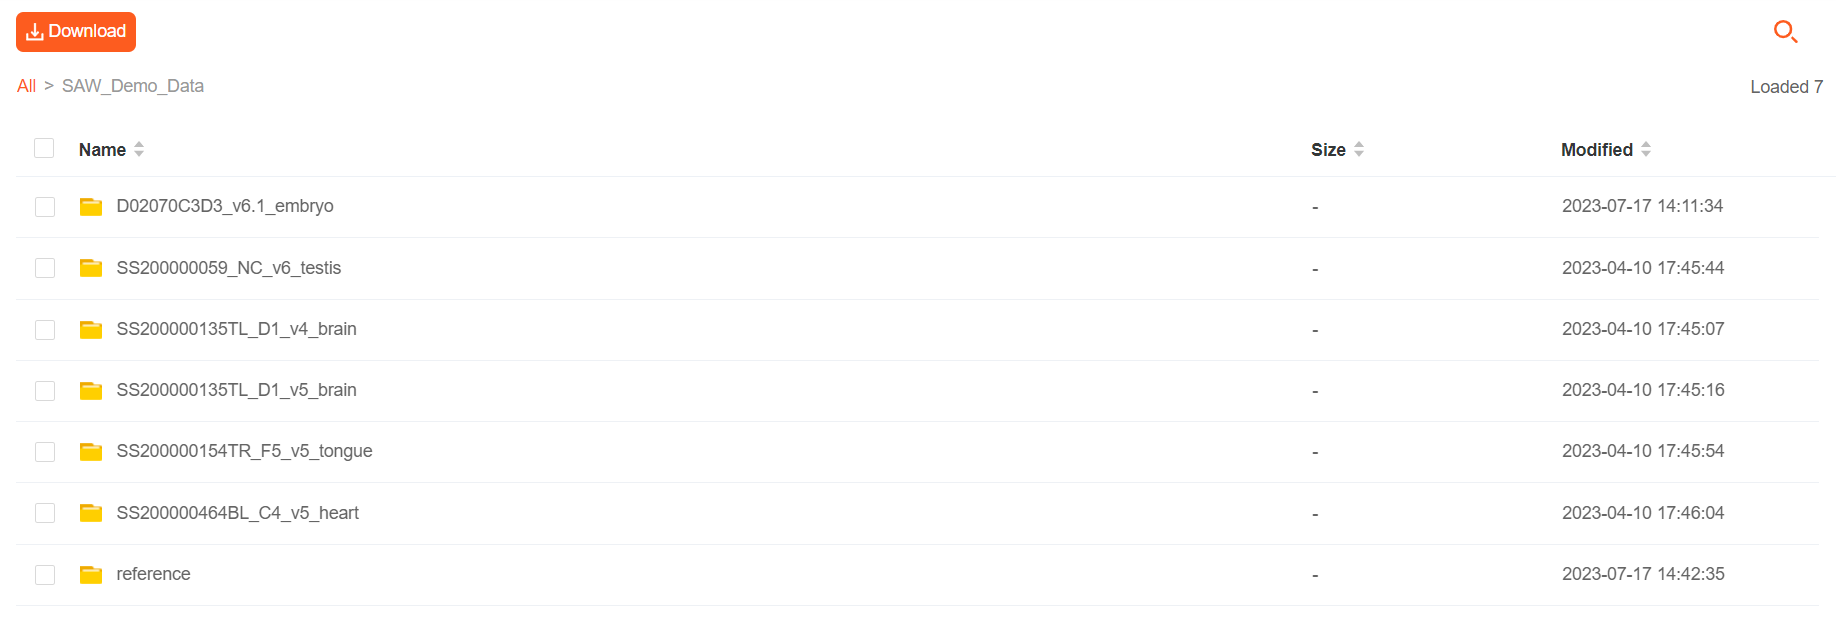
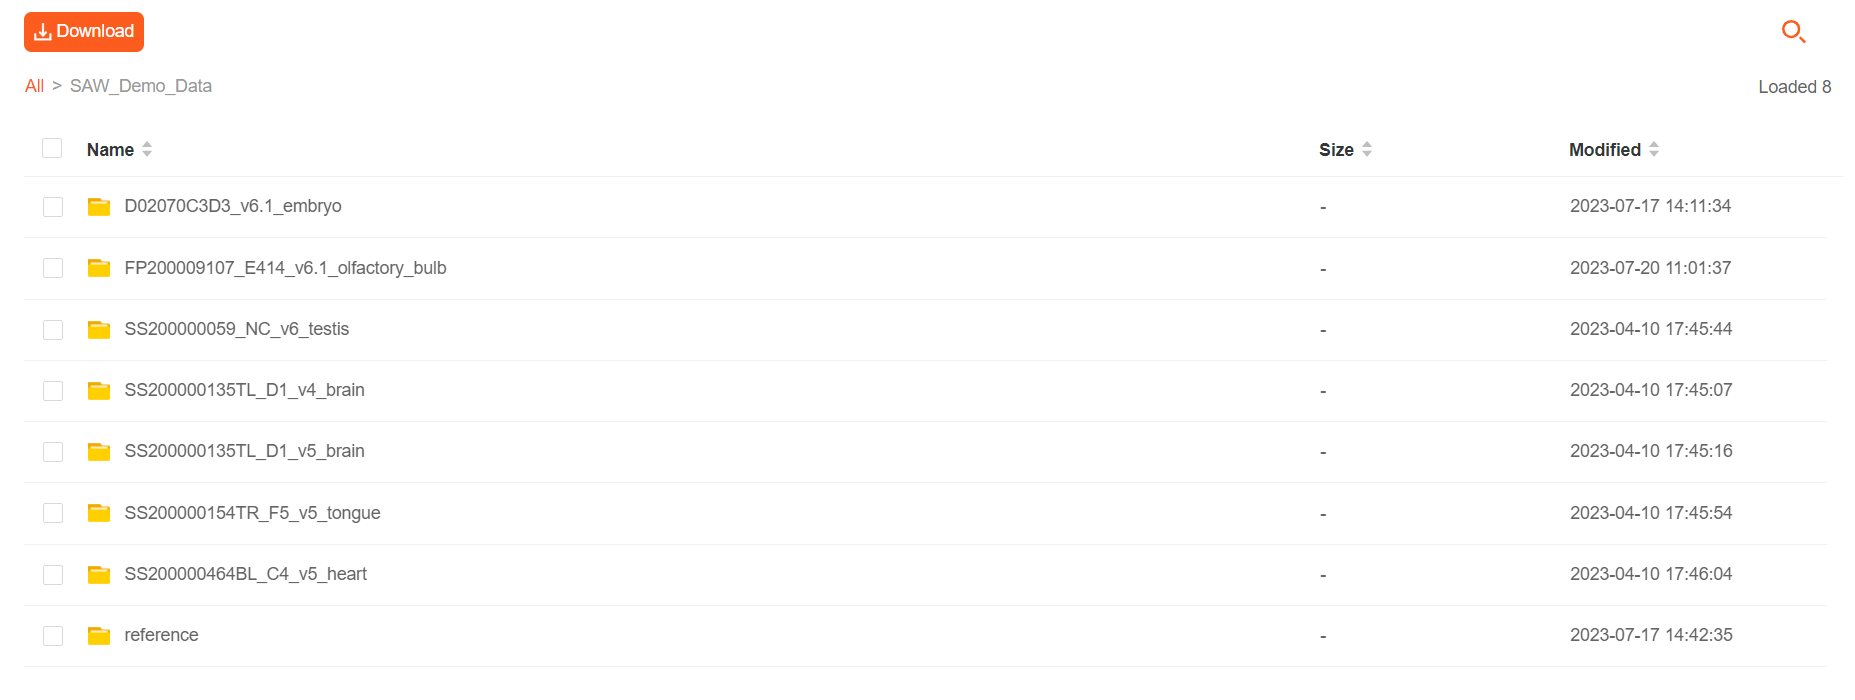
(File)

diff --git a/Test_Data/README.md b/Test_Data/README.md
@@ -8,6 +8,8 @@
 | Demo 3 | SS200000464BL_C4 | 1\*1 | mouse | heart |
 | Demo 4 | SS200000059_NC | 1\*1 | mouse | testis |
 | Demo 5 | D02070C3D3 | 1\*2 | mouse | embryo |
+| Demo 6 | FP200009107_E414 | 0.5\*0.5 | mouse | olfactory bulb |
+
 
 ##  Download data from Raysync
 **Link: http://116.6.21.110:8090/share/QJKAO6hGUpTPbuYH7Dvi**
@@ -24,6 +26,7 @@
 | SS200000464BL_C4_v5_heart | \>= V5.1.3 |
 | SS200000059_NC_v6_testis | \>= V6.0.0 |
 | D02070C3D3_v6.1_embryo | \>= V6.1.0 |
+| FP200009107_E414_v6.1_olfactory_bulb | \>= V6.1.0 |
 
 
 ## Raw Data Directory Structure
